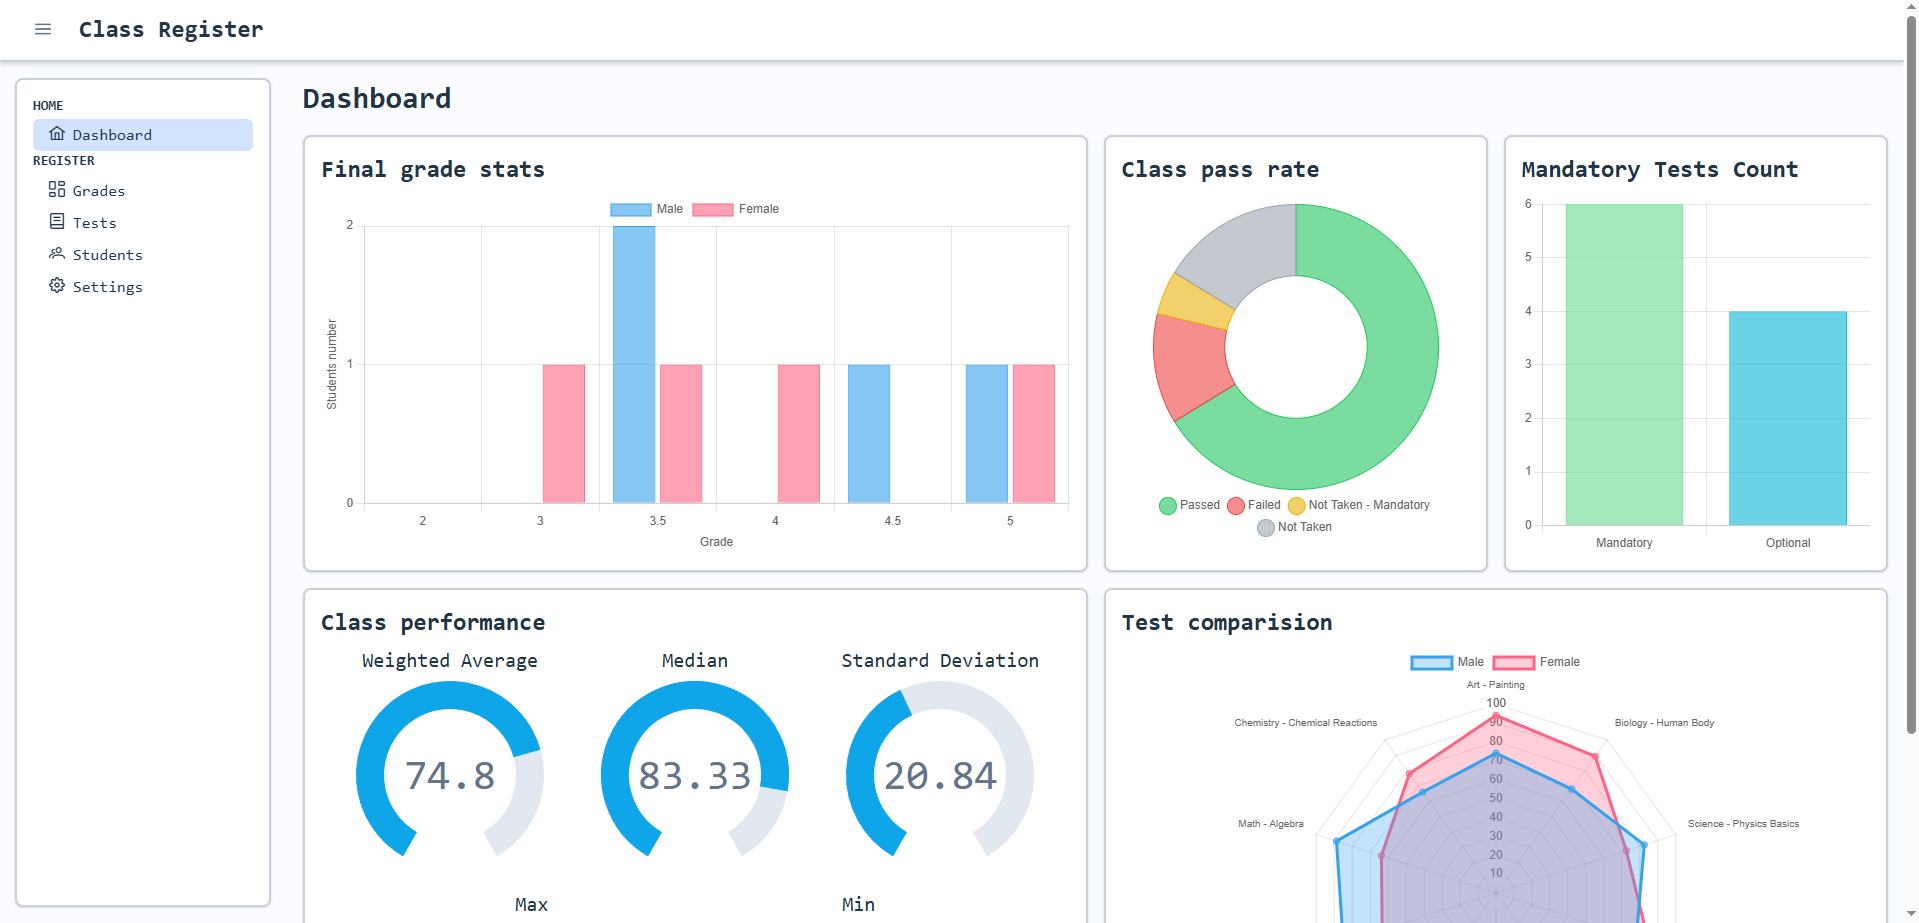
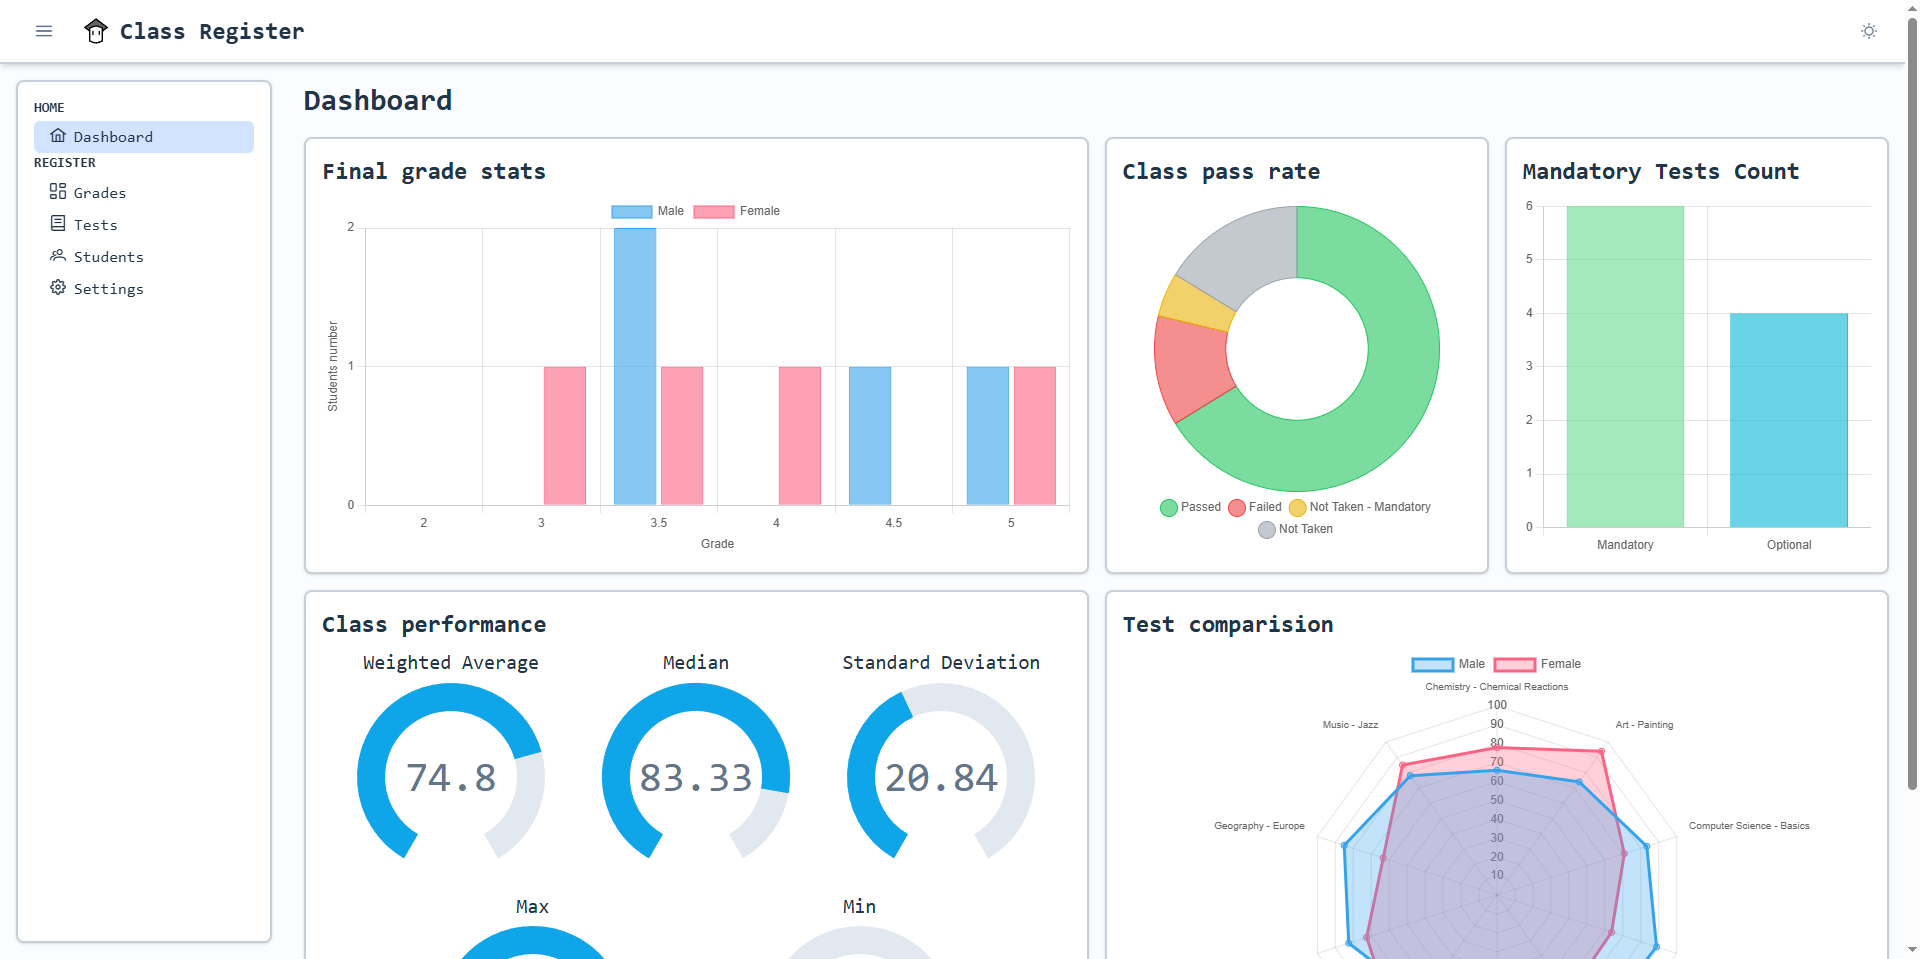
Change images and update README.md

diff --git a/src/components/home/presentationSection/Carousel.vue b/src/components/home/presentationSection/Carousel.vue
@@ -16,31 +16,24 @@ interface CenterToItemResult {
 const images = [
   {
     alt: "Dashboard",
-    src: new URL('@/assets/presentation/preview_dashboard.png', import.meta.url).href
-  },
-  {
-    alt: "Grades",
-    src: new URL("@/assets/presentation/preview_grades_1.png", import.meta.url).href
-  },
-  {
-    alt: "Settings",
-    src: new URL("@/assets/presentation/preview_settings.png", import.meta.url).href
+    src: new URL('@/assets/presentation/preview_dashboard.png', import.meta.url).href,
+    srcDark: new URL('@/assets/presentation/preview_dashboard_dark.png', import.meta.url).href
   },
   {
     alt: "StudentDetails",
-    src: new URL("@/assets/presentation/preview_studentDetails_1.png", import.meta.url).href
-  },
-  {
-    alt: "StudentsList",
-    src: new URL("@/assets/presentation/preview_studentsList.png", import.meta.url).href
+    src: new URL("@/assets/presentation/preview_studentDetails_1.png", import.meta.url).href,
+    srcDark: new URL('@/assets/presentation/preview_studentDetails_1.png', import.meta.url).href
   },
   {
     alt: "TestDetails",
     src: new URL("@/assets/presentation/preview_testDetails_1.png", import.meta.url).href
+    ,
+    srcDark: new URL('@/assets/presentation/preview_testDetails_1.png', import.meta.url).href
   },
   {
     alt: "TestsList",
-    src: new URL("@/assets/presentation/preview_testsList.png", import.meta.url).href
+    src: new URL("@/assets/presentation/preview_testsList.png", import.meta.url).href,
+    srcDark: new URL('@/assets/presentation/preview_testsList.png', import.meta.url).href
   },
 ];
 

diff --git a/README.md b/README.md
@@ -3,6 +3,8 @@ Class Register is a web application built with Vue.js that allows managing stude
 
 🌐 Access Class Register on GitHub Pages: https://robertpintera.github.io/Class-register
 
+ℹ In the Settings section, you can use the “Load Demo Data” option to quickly import sample data and try out the application.
+
 ## Features
 
 - Store data in IndexedDB
@@ -11,6 +13,7 @@ Class Register is a web application built with Vue.js that allows managing stude
 - Sort and filter data in interactive tables
 - Configure different ways of editing grades
 - Load demo data from settings
+- Light and Dark Mode
 - Import and export data in `.json` format
 
 ## Tech stack
@@ -54,17 +57,17 @@ npm run preview
 
 ## Preview
 
+### Home
+![Peview home](preview/preview_home.png)
 ### Dashboard
 ![Peview dashboard](preview/preview_dashboard.png)
 ### Students list
 ![Preview students list](preview/preview_studentsList.png)
 ### Student details
 ![Preview student details 1](preview/preview_studentDetails_1.png)
-![Preview student details 2](preview/preview_studentDetails_2.png)
 ### Tests list
 ![Preview tests list](preview/preview_testsList.png)
 ### Test details
 ![Preview test details 1](preview/preview_testDetails_1.png)
-![Preview test details 2](preview/preview_testDetails_2.png)
 ### Settings
 ![Preview settings](preview/preview_settings.png)
